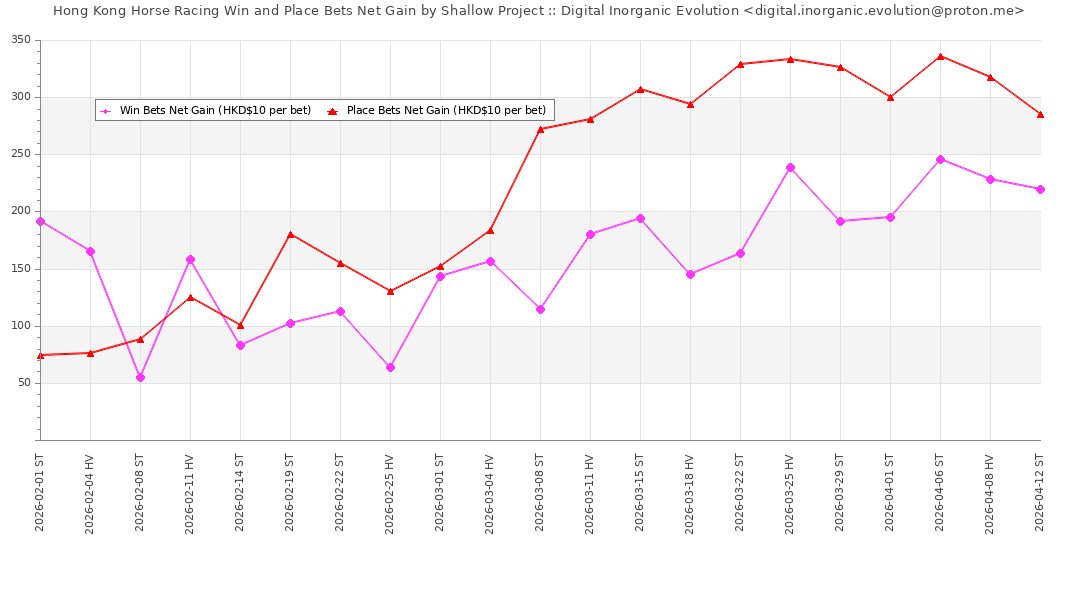
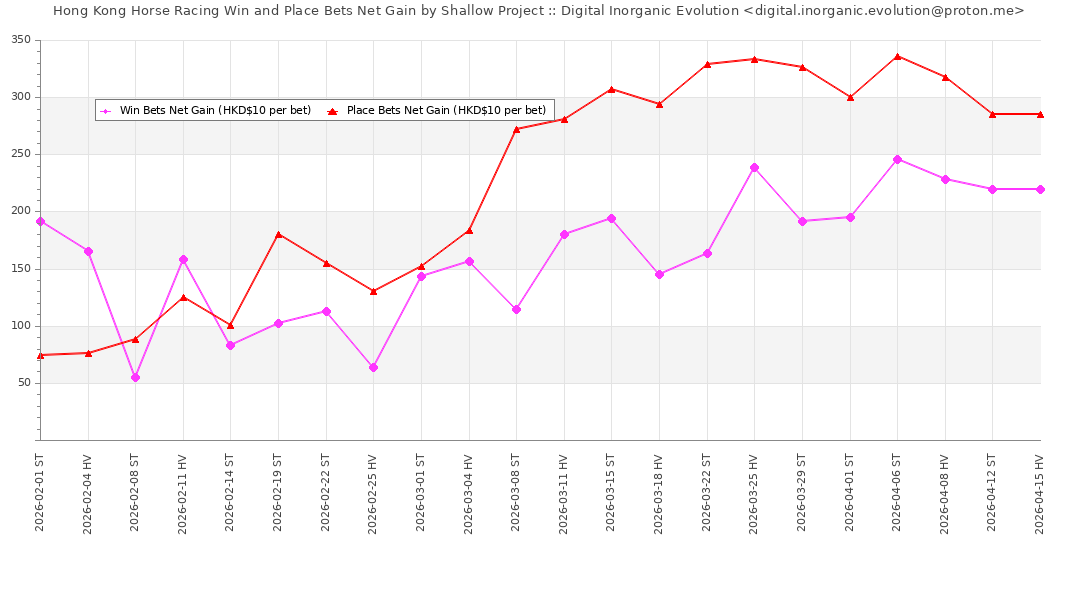
2026/04/15 Predictions

diff --git a/index.html b/index.html
@@ -182,6 +182,69 @@ The survival comparison assumes an energy consumption per hunting of HKD $10 eac
 </tr>
 </thead>
 <tbody>
+<tr><td>2026-04-15</td><td>1</td><td> /  / </td><td></td>
+<td></td>
+<td></td>
+<td></td>
+<td  bgcolor=Beige >3</td>
+<td  bgcolor=Lavender >5</td>
+<td>0</td><td>0</td></tr>
+<tr><td>2026-04-15</td><td>2</td><td> /  / </td><td></td>
+<td></td>
+<td></td>
+<td></td>
+<td  bgcolor=Beige >9</td>
+<td  bgcolor=Lavender >9</td>
+<td>0</td><td>0</td></tr>
+<tr><td>2026-04-15</td><td>3</td><td> /  / </td><td></td>
+<td></td>
+<td></td>
+<td></td>
+<td  bgcolor=Beige >1</td>
+<td  bgcolor=Lavender >10</td>
+<td>0</td><td>0</td></tr>
+<tr><td>2026-04-15</td><td>4</td><td> /  / </td><td></td>
+<td></td>
+<td></td>
+<td></td>
+<td  bgcolor=Beige >3</td>
+<td  bgcolor=Lavender >11</td>
+<td>0</td><td>0</td></tr>
+<tr><td>2026-04-15</td><td>5</td><td> /  / </td><td></td>
+<td></td>
+<td></td>
+<td></td>
+<td  bgcolor=Beige >4</td>
+<td  bgcolor=Lavender >4</td>
+<td>0</td><td>0</td></tr>
+<tr><td>2026-04-15</td><td>6</td><td> /  / </td><td></td>
+<td></td>
+<td></td>
+<td></td>
+<td  bgcolor=Beige >8</td>
+<td  bgcolor=Lavender >11</td>
+<td>0</td><td>0</td></tr>
+<tr><td>2026-04-15</td><td>7</td><td> /  / </td><td></td>
+<td></td>
+<td></td>
+<td></td>
+<td  bgcolor=Beige >6</td>
+<td  bgcolor=Lavender >5</td>
+<td>0</td><td>0</td></tr>
+<tr><td>2026-04-15</td><td>8</td><td> /  / </td><td></td>
+<td></td>
+<td></td>
+<td></td>
+<td  bgcolor=Beige >8</td>
+<td  bgcolor=Lavender >2</td>
+<td>0</td><td>0</td></tr>
+<tr><td>2026-04-15</td><td>9</td><td> /  / </td><td></td>
+<td></td>
+<td></td>
+<td></td>
+<td  bgcolor=Beige >12</td>
+<td  bgcolor=Lavender >9</td>
+<td>0</td><td>0</td></tr>
 <tr><td>2026-04-12</td><td>1</td><td>2 / 5 / 6</td><td>22.50</td>
 <td>14.50</td>
 <td>20.50</td>
@@ -1664,7 +1727,7 @@ The survival comparison assumes an energy consumption per hunting of HKD $10 eac
 <p>
 <a href="https://github.com/Digital-Inorganic-Evolution/Digital-Inorganic-Evolution.github.io/commits/main/" target="_blank">Check Commits on GitHub</a>
 <p>
-<h4>Generated at HKT 2026-04-13 02:56:08</h4>
+<h4>Generated at HKT 2026-04-15 18:08:09</h4>
 	
 <script src="https://code.jquery.com/jquery-3.7.1.min.js"></script>
 <script type="text/javascript" src="https://cdn.datatables.net/2.3.7/js/dataTables.min.js"></script>  
